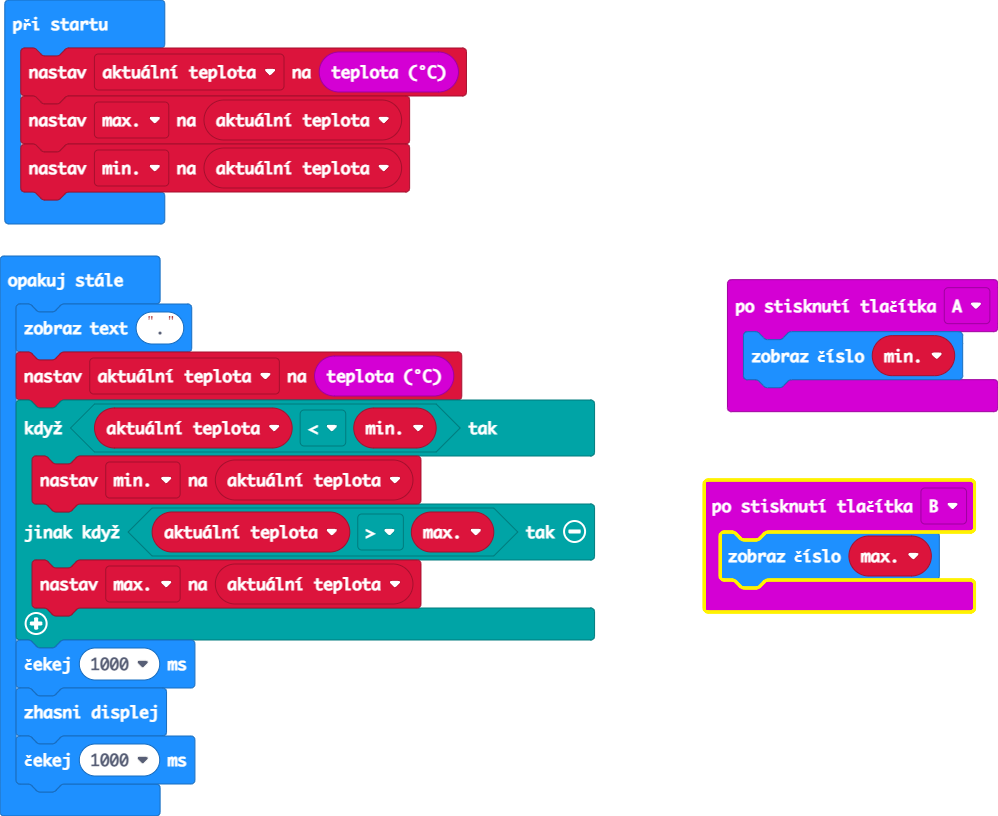
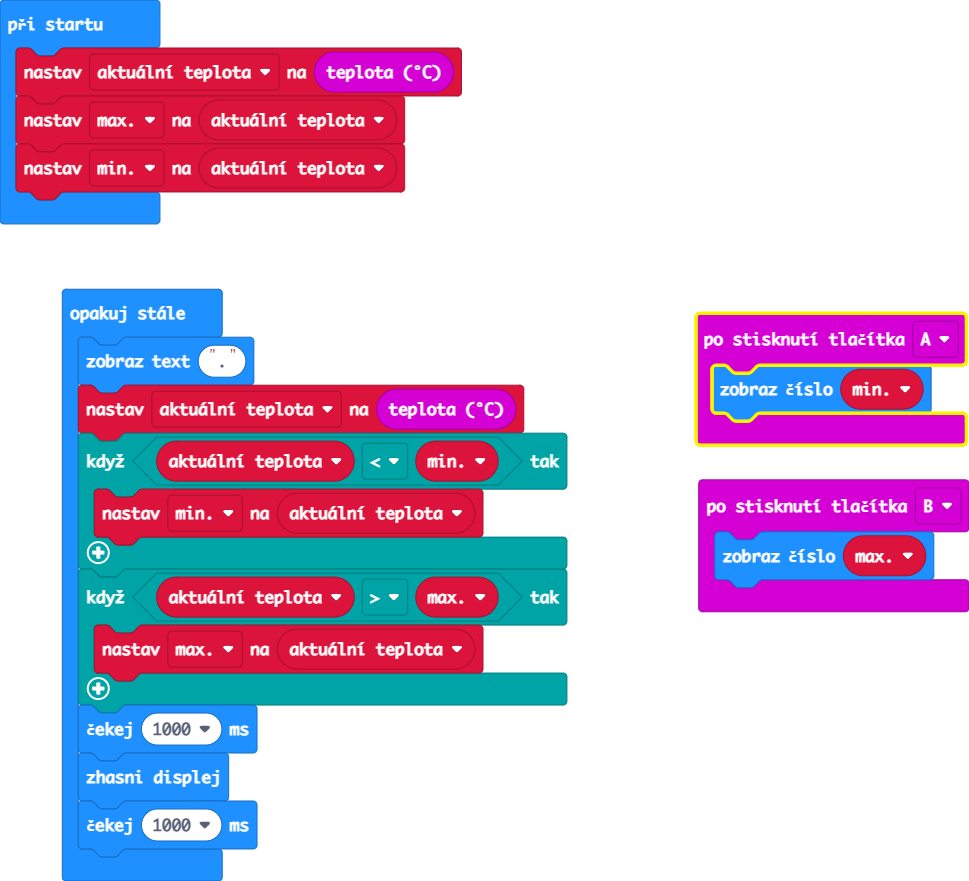
Aktualizovat main.blocks, main.ts

diff --git a/main.ts b/main.ts
@@ -14,7 +14,8 @@ basic.forever(function () {
     aktuální_teplota = input.temperature()
     if (aktuální_teplota < min) {
         min = aktuální_teplota
-    } else if (aktuální_teplota > max) {
+    }
+    if (aktuální_teplota > max) {
         max = aktuální_teplota
     }
     basic.pause(1000)
